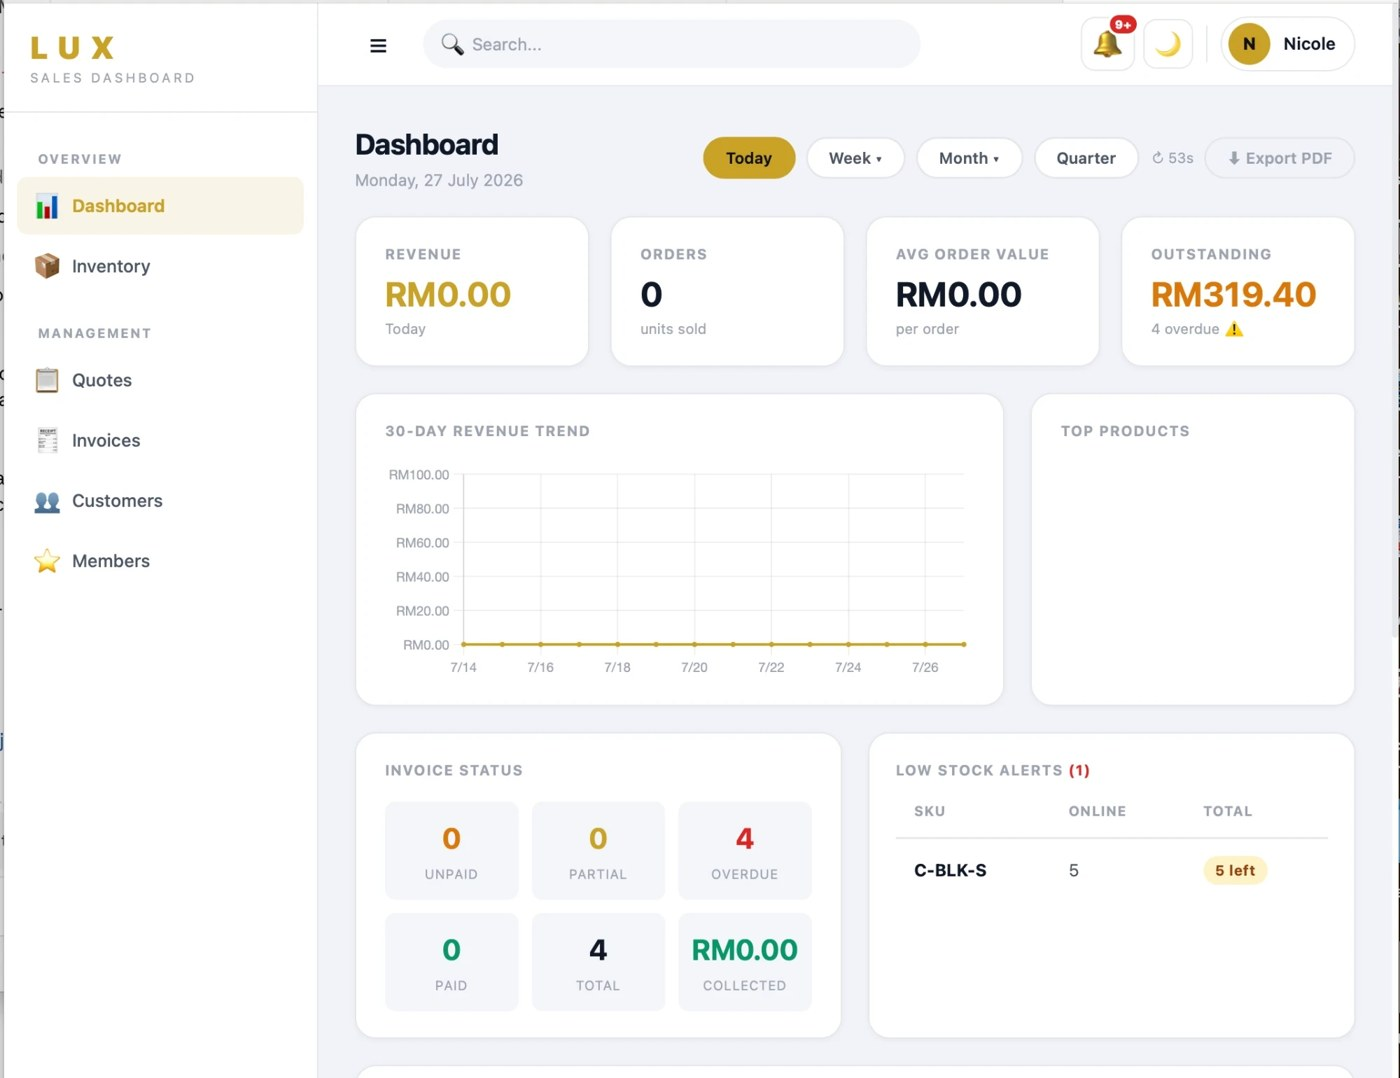
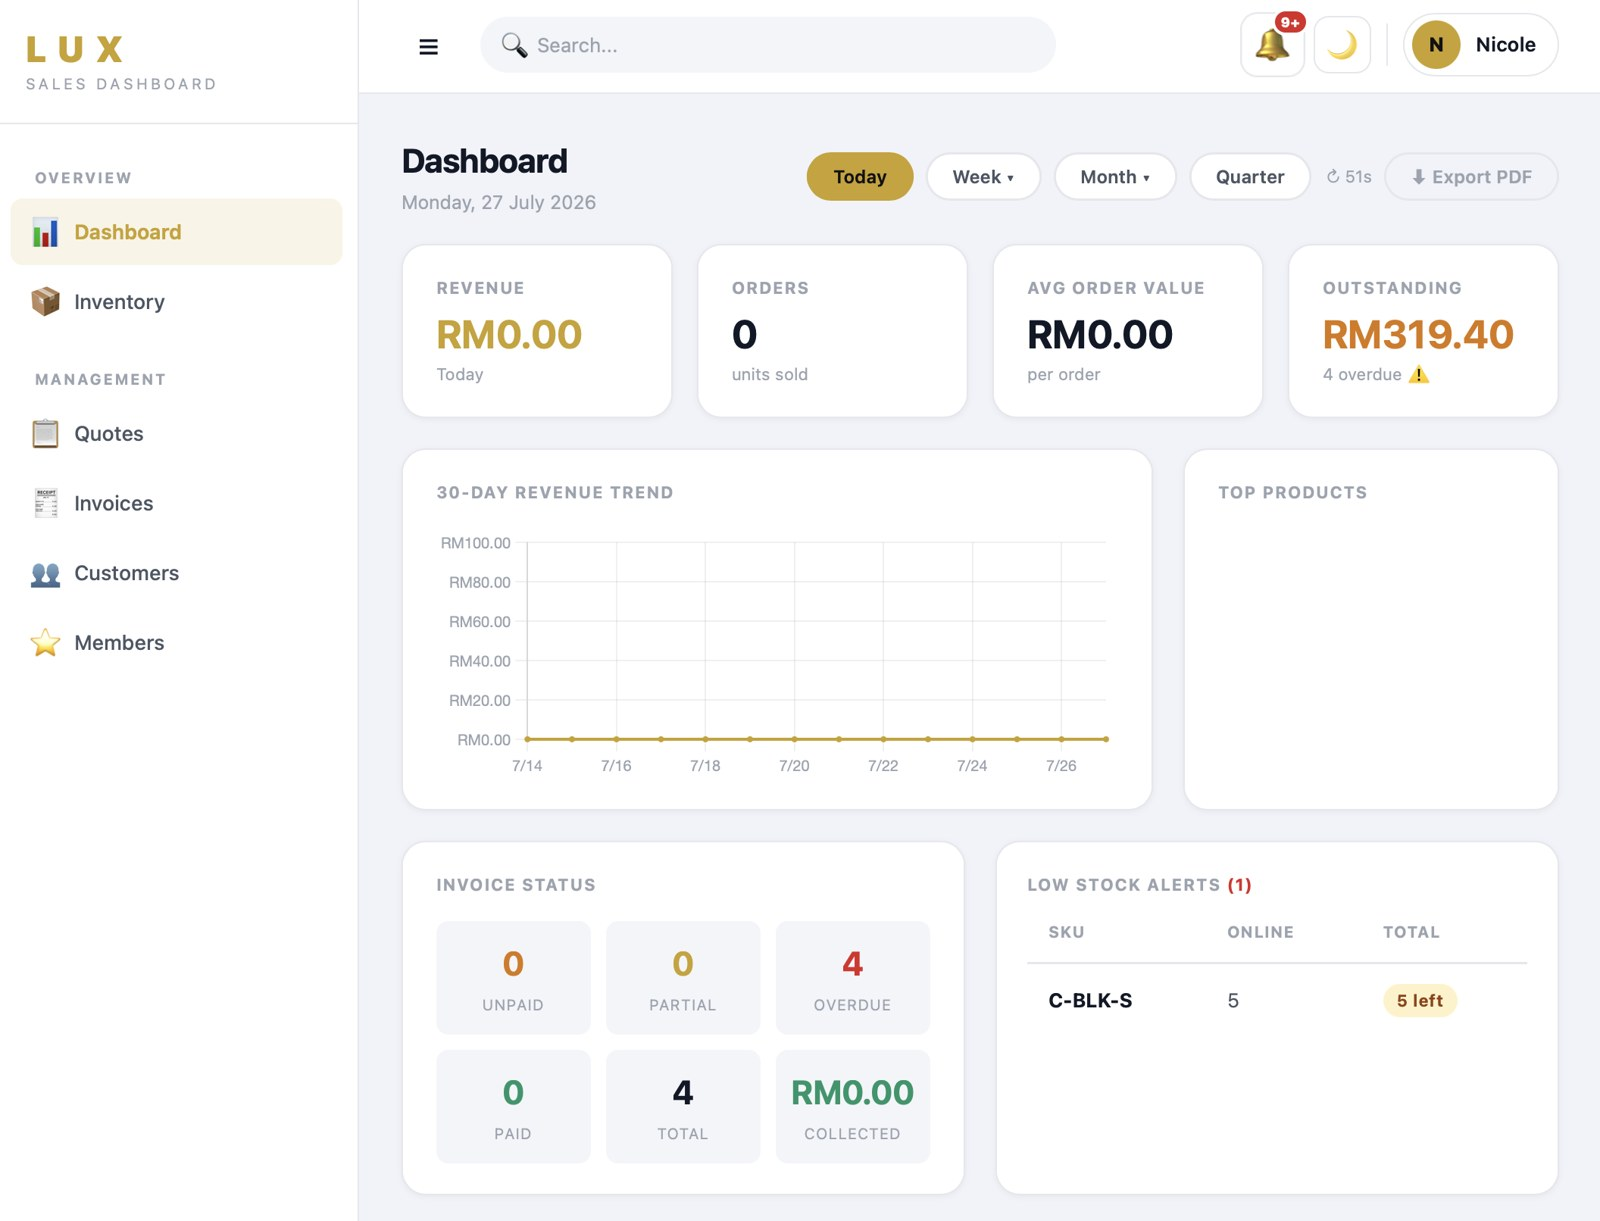
Swap Lux dashboard screenshot for a cleaner, full-resolution capture

diff --git a/projects.css b/projects.css
@@ -43,7 +43,7 @@ nav .logo { color:var(--tan-soft); text-decoration:none; font-size:.8rem; font-w
 .cs-gallery figure { margin:0; }
 .cs-gallery img { width:100%; aspect-ratio:1/1; object-fit:cover; border-radius:10px; box-shadow:0 14px 34px rgba(36,27,19,.14); display:block; transition:transform .3s ease; }
 .cs-gallery.cols-2 img { aspect-ratio:4/5; }
-.cs-gallery.single img { aspect-ratio:1400/1078; object-fit:contain; background:#f4efe6; }
+.cs-gallery.single img { aspect-ratio:1600/1221; object-fit:contain; background:#f4efe6; }
 .cs-gallery figure:hover img { transform:translateY(-4px); box-shadow:0 20px 44px rgba(36,27,19,.2); }
 .cs-gallery figcaption { font-size:.7rem; color:var(--muted); text-align:center; margin-top:.6rem; letter-spacing:.02em; }
 

diff --git a/projects.html b/projects.html
@@ -6,7 +6,7 @@
   <title>Projects & Case Studies — Nicole Hew</title>
   <link rel="preconnect" href="https://fonts.googleapis.com" />
   <link href="https://fonts.googleapis.com/css2?family=Playfair+Display:ital,wght@0,400;0,500;0,600;1,400;1,500&family=Inter:wght@300;400;500;600;700&display=swap" rel="stylesheet" />
-  <link rel="stylesheet" href="projects.css?v=13" />
+  <link rel="stylesheet" href="projects.css?v=14" />
 </head>
 <body>
 
